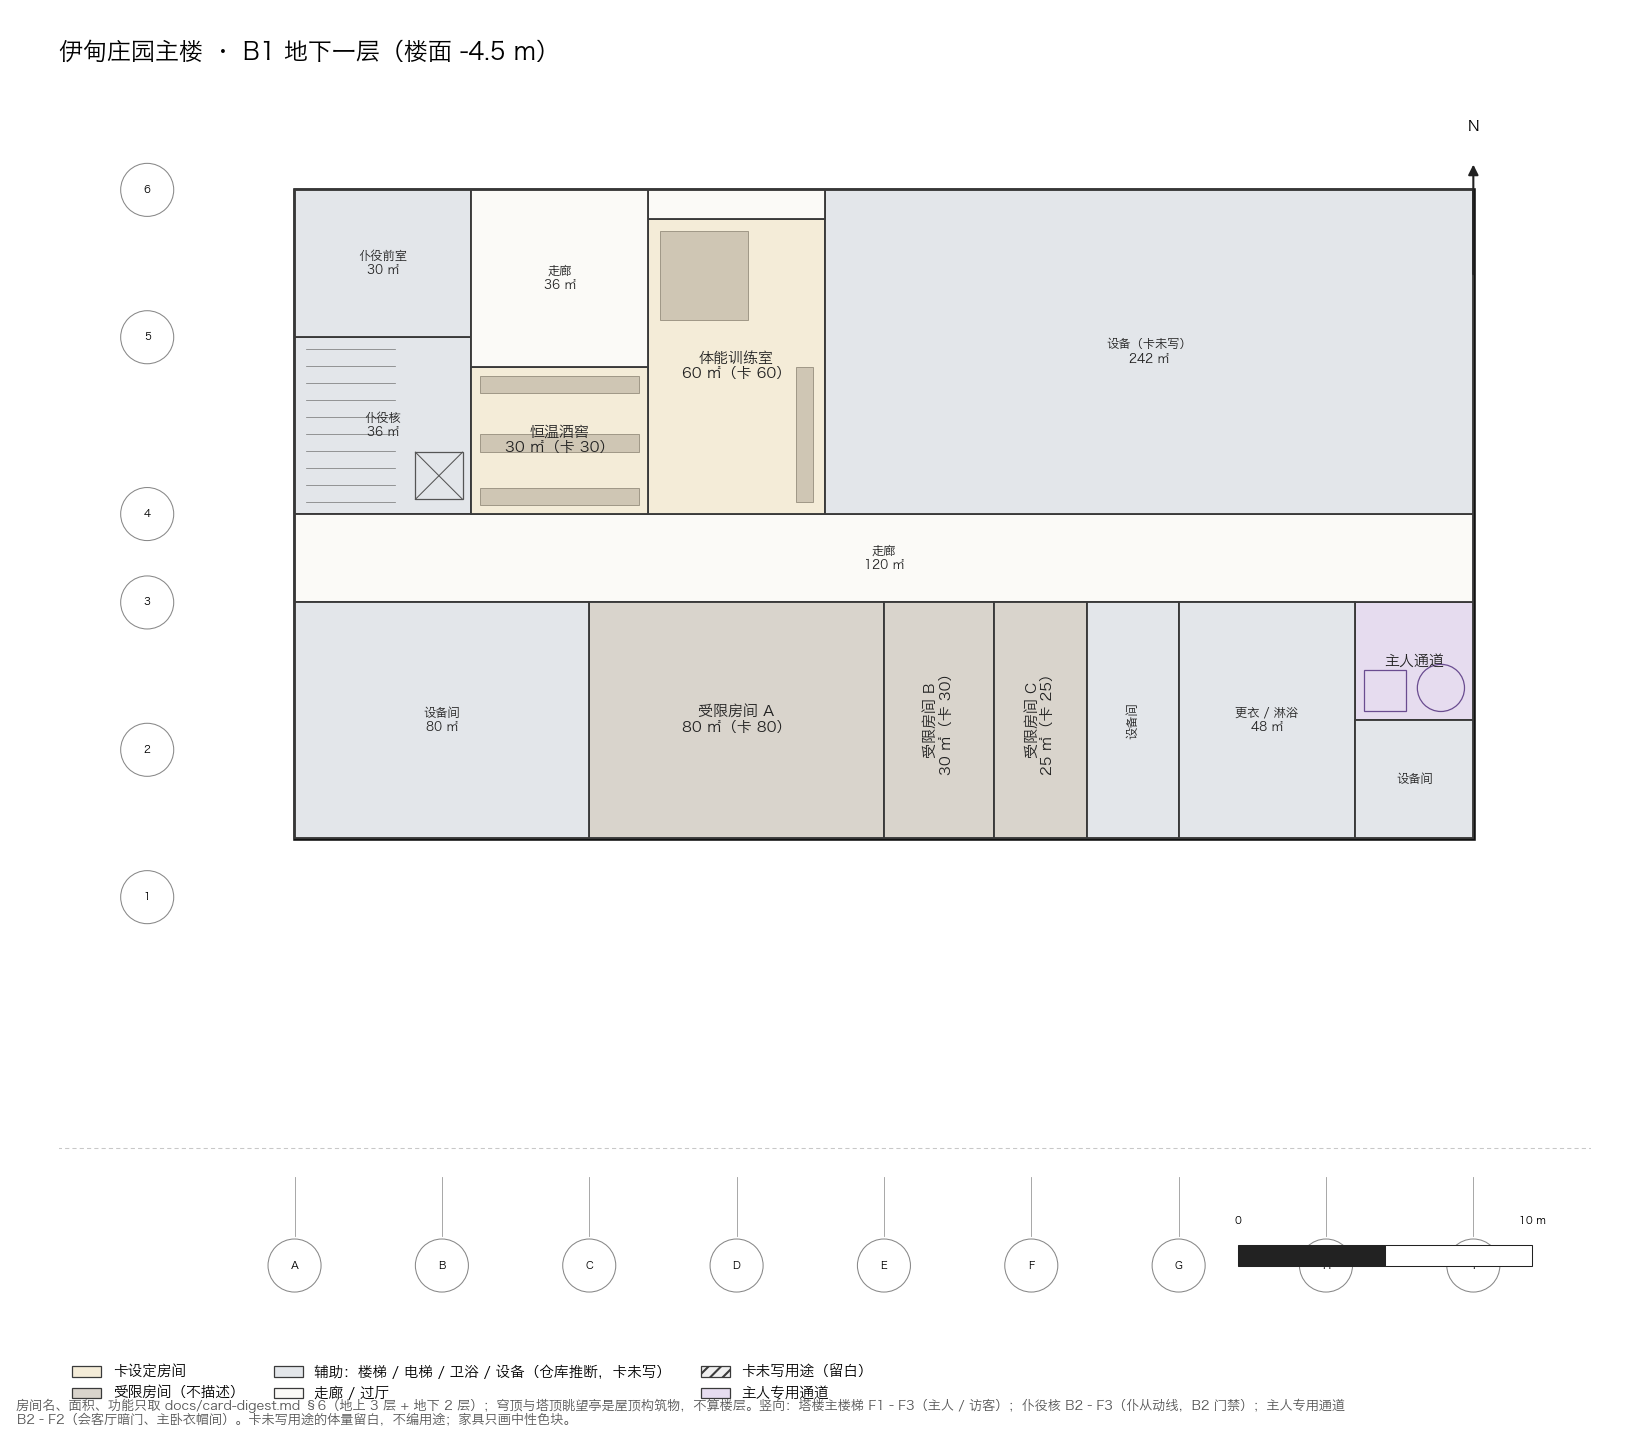
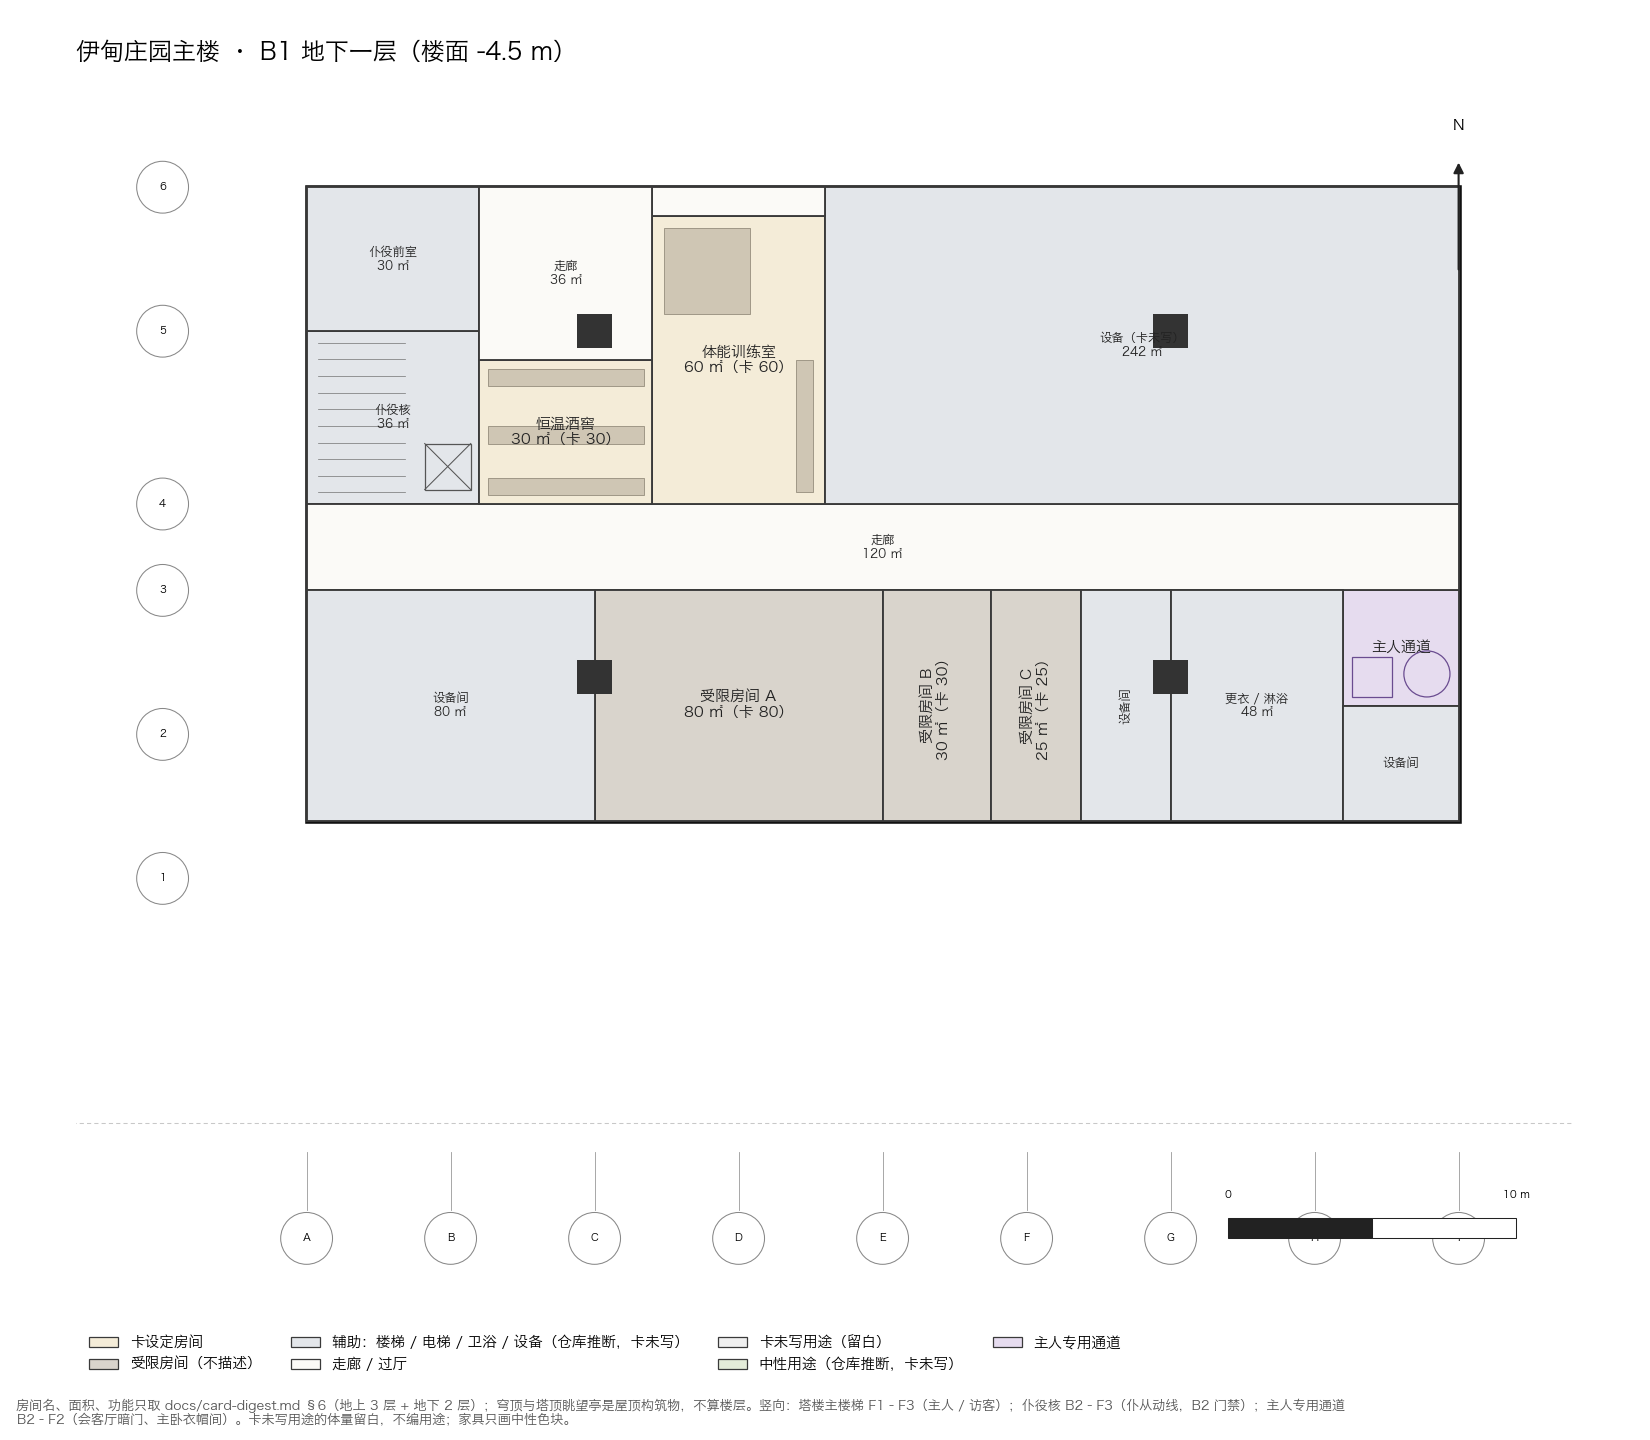
estate2 平面第二轮：主人通道前室、仆从动线不走主廊、穹顶转换梁框 + 四角墩柱、留白体量改仓库推断中性用途；选择器按 eden_estate_rooms.json 分 B2–F3；eden-estate.md / layout.PROGRAM 同步

diff --git a/map/custom.js b/map/custom.js
@@ -74,7 +74,8 @@ const TCCustom = (() => {
   const KIND = { room: ['cu.room', '房间'], area: ['cu.area', '区域'], landmark: ['cu.landmark', '地标'], character: ['cu.character', '人物'] };
   let listQ = '', PK = null, plan = null, view = 'list', editing = null, query = '', opener = null, resetArm = null, resetT = 0, flyMsg = '';
   const pk = () => (PK ? Promise.resolve(PK) : import(new URL('tavern/picker.mjs', document.baseURI).href).then(m => (PK = m)));
-  const planP = () => (plan ? Promise.resolve(plan) : import(new URL('estate/plan.js', document.baseURI).href).then(m => (plan = m)).catch(() => (plan = {})));
+  const planP = () => (plan ? Promise.resolve(plan) : Promise.all([import(new URL('estate/plan.js', document.baseURI).href).catch(() => ({})), fetch(new URL('data/eden_estate_rooms.json', document.baseURI)).then(r => (r.ok ? r.json() : null)).catch(() => null)])
+    .then(([m, card]) => (plan = { ...m, CARD: card })));   // 卡设定分层房间（B2–F3）
   function groups() {
     if (!PK || typeof REG === 'undefined' || !REG) return [];
     return PK.buildGroups({ reg: REG, plan, chars: typeof TCChars !== 'undefined' ? TCChars.items.map(c => c.name) : [], lang: typeof LANG !== 'undefined' ? LANG : 'zh' });

diff --git a/blender/estate2/layout.py b/blender/estate2/layout.py
@@ -476,22 +476,22 @@ COURTS = [(-186, -12, 22), (168, -100, -28), (-230, 95, -20)]   # r4 网球场 (
 BARRIER_STONES = [(-235, -165), (235, -165), (-235, 165), (235, 165)]   # 结界锚碑
 
 # 主楼群按翼 / 层落位（B2…F3 对应卡里的地上三层 + 地下两层；观景塔是屋顶眺望亭，不算楼层，键名沿用 F5）
-PROGRAM = {
-    'hall':      {'F1': ['大厅', '会客厅'], 'F2': ['书房', '主卧（含衣帽间、浴室）', '女仆长寝室'], 'F3': ['三楼公共浴室'],
-                  'B1': ['酒窖', '体能训练室', '附属室 A*', '附属室 B*', '附属室 C*'],
-                  'B2': ['档案室', '储藏室', '医务室', '结界发生器', '附属室 D*']},
+PROGRAM = {   # r5：按 floorplans.py（卡 §6）重排；卡未写的体量是「仓库推断」中性用途。完整多边形见 map/data/eden_estate_rooms.json
+    'hall':      {'F1': ['大厅', '会客厅', '餐厅', '备餐间', '主人通道前室'], 'F2': ['主卧（含衣帽间、浴室）', '书房', '女仆长寝室', '客房 ×2'],
+                  'F3': ['个人寝室 ×14', '新人公共寝区', '三楼公共浴室', '女仆团集体间', '公共清洁间', '三楼公共区'],
+                  'B1': ['受限房间 ×3（不描述）', '体能训练室', '恒温酒窖'], 'B2': ['受限房间（不描述）', '医疗室', '档案室', '储藏室']},
     'porch':     {'F1': ['门廊（正门）']},
-    'tower':     {'F5': ['观景塔 / 屋顶眺望亭']},
-    'w_wing_a':  {'F1': ['餐厅', '备餐间'], 'F2': ['客房 ×2'], 'F3': ['新人公共寝室']},
-    'w_wing_b':  {'F1': ['厨房', '洗衣房'], 'F3': ['女仆团集体宿舍']},
-    'w_pav':     {'F1': ['物资仓库', '清洗消毒间', '服务楼梯'], 'F2': ['值班室 / 监控室']},
-    'e_wing_a':  {'F2': ['东侧长廊（落地窗朝云海）'], 'F3': ['住客个人寝室 ×6']},
-    'e_wing_b':  {'F2': ['起居室', '茶室'], 'F3': ['住客个人寝室 ×6']},
-    'e_pav':     {'F1': ['图书室'], 'F3': ['观景室（朝云海）']},
-    'belvedere': {'F4': ['小望楼']},
-    'n_link':    {'F1': ['廊厅（通后庭）']},
-    'w_low':     {'F1': ['主人专用通道 / 电梯厅']},
-    'e_low':     {'F1': ['小客厅']},
+    'tower':     {'F1': ['主楼梯'], 'F2': ['主楼梯'], 'F3': ['主楼梯'], 'F5': ['屋顶眺望亭（屋顶构筑物，不算楼层）']},
+    'w_low':     {'F1': ['厨房']},
+    'w_wing_a':  {'F1': ['衣物清洗维护间', '器具清洗消毒间', '物资仓库'], 'F2': ['仆役用房 / 储藏（仓库推断）']},
+    'w_wing_b':  {'F1': ['仆役用房 / 储藏（仓库推断）'], 'F2': ['仆役用房 / 储藏（仓库推断）']},
+    'w_pav':     {'F1': ['仆役用房 / 储藏（仓库推断）'], 'F2': ['仆役用房 / 储藏（仓库推断）'], 'F3': ['仆役用房 / 储藏（仓库推断）']},
+    'e_wing_a':  {'F1': ['客用起居 / 储藏（仓库推断）'], 'F2': ['客用起居 / 储藏（仓库推断）']},
+    'e_wing_b':  {'F1': ['客用起居 / 储藏（仓库推断）'], 'F2': ['东侧长廊（落地窗朝云海）']},
+    'e_pav':     {'F1': ['客用起居 / 储藏（仓库推断）'], 'F2': ['客用起居 / 储藏（仓库推断）'], 'F3': ['客用起居 / 储藏（仓库推断）']},
+    'belvedere': {'F1': ['客用起居 / 储藏（仓库推断）']},
+    'n_link':    {'F1': ['北廊楼（通后庭）'], 'F2': ['客用起居 / 储藏（仓库推断）']},
+    'e_low':     {'F1': ['客用起居 / 储藏（仓库推断）']},
     'arc':       {'F1': ['半圆回廊（后庭）']},
     'breakers':  {'F1': ['宾客馆：长住访客（阿斯特丽德等）']},
     'gs_main':   {'F1': ['旧宅：家族藏书与收藏']},

diff --git a/docs/eden-estate.md b/docs/eden-estate.md
@@ -98,6 +98,14 @@
   - 眺望亭鼓座直径 14 m、壁厚 0.6 m，落在 F4 由 x = ±8、y = −10 / +6 四道承重墙围成的方框上，四角用叠涩和帆拱过渡。荷载经 F3 肖像廊的 8 根柱子和 F1 大厅的两列柱（x = ±8）逐层落地。
 - **屋面**：主楼和两翼都是铅皮平屋顶加石栏杆。主楼屋顶平台（F5）铺石板，眺望亭是铅皮穹顶，顶上有灯亭和金色松果顶饰。
 
+### 3.1b 卡设定分层平面（estate2，2026-09-27，**以此为准**）
+
+- 平面图：`docs/drafts/eden2_plan_{B2,B1,F1,F2,F3}.png`、总图 `eden2_plans_sheet.png`；数据：`map/data/eden_estate_rooms.json`（生成脚本 `blender/estate2/floorplans.py`，不要手改）。
+- 楼层只有卡的 F1–F3 + B1–B2；穹顶（鼓座落在 20 × 12 m 转换梁框、四角墩柱）和塔顶眺望亭是屋顶构筑物，**不算楼层**。本文下面 F4「顶楼」一节是 three.js v1 的旧写法，已作废（plan.js 里改标「屋顶服务间」，不算楼层）。
+- 房间名、面积、功能取 `docs/card-digest.md` §6；受限房间只写「不描述」，不画家具。卡没写用途的体量标「仓库推断」中性用途（客用起居 / 仆役用房 / 储藏）。
+- 竖向：塔楼主楼梯 F1–F3（主人 / 访客）；仆役核 B2–F3（B2 门禁）；主人专用通道 B2–F2（F1 前室接会客厅暗门，F2 开进主卧衣帽间）。仆从动线经西翼服务走廊 → 服务连廊 → 仆役核，不走主廊。
+- 选择器（`map/tavern/picker.mjs`）的伊甸分组按这份数据分 B2 / B1 / F1 / F2 / F3。
+
 ### 3.2 楼层总表
 
 | 层 | 楼面标高 | 范围 | 分区属性 | 出处 |
@@ -106,7 +114,7 @@
 | F1 礼仪层 | 0.00（大厅通高到 9.0） | 主楼 + 两翼 | 访客 / 礼仪；西北角是仆役 | 世界书（大厅、餐厅、会客厅、值班室） |
 | F2 日常层 | 4.50 | 主楼 + 两翼 | 主人办公（西翼），客房（东翼） | 世界书（书房、客房、起居室、茶室） |
 | F3 私人层 | 9.00 | 主楼 + 两翼 | 主人私区（西翼 + 主楼后区），家人（东翼） | 世界书（主卧、浴室、寝） |
-| F4 服务层（顶楼，**非卡设定**） | 13.50 | 只有主楼 | 仆役 / 安保 | 仓库自设 |
+| （原 F4，**已作废**：屋顶服务间，不算楼层） | 13.50 | 只有主楼 | 仆役 / 安保 | 仓库自设 |
 | 屋顶眺望亭（原 F5，**不算楼层**） | 18.85 | 主楼屋顶平台 + 眺望亭 | 主人 / 受邀访客 | 仓库自设（ROADMAP 旧写法「5 层」已按卡改为 3 + 2） |
 
 > 与卡不符：卡是地上 F1–F3 + 地下 B1–B2；主卧、书房、女仆长寝室、客房在 F2，住客个人寝室与女仆团集体间在 F3，B1 / B2 各有房间（见 `docs/card-digest.md` §6）。上表是 three.js v1 剖切页的旧分配，Blender v2 以 `docs/eden-lore-space.md` 为准。
